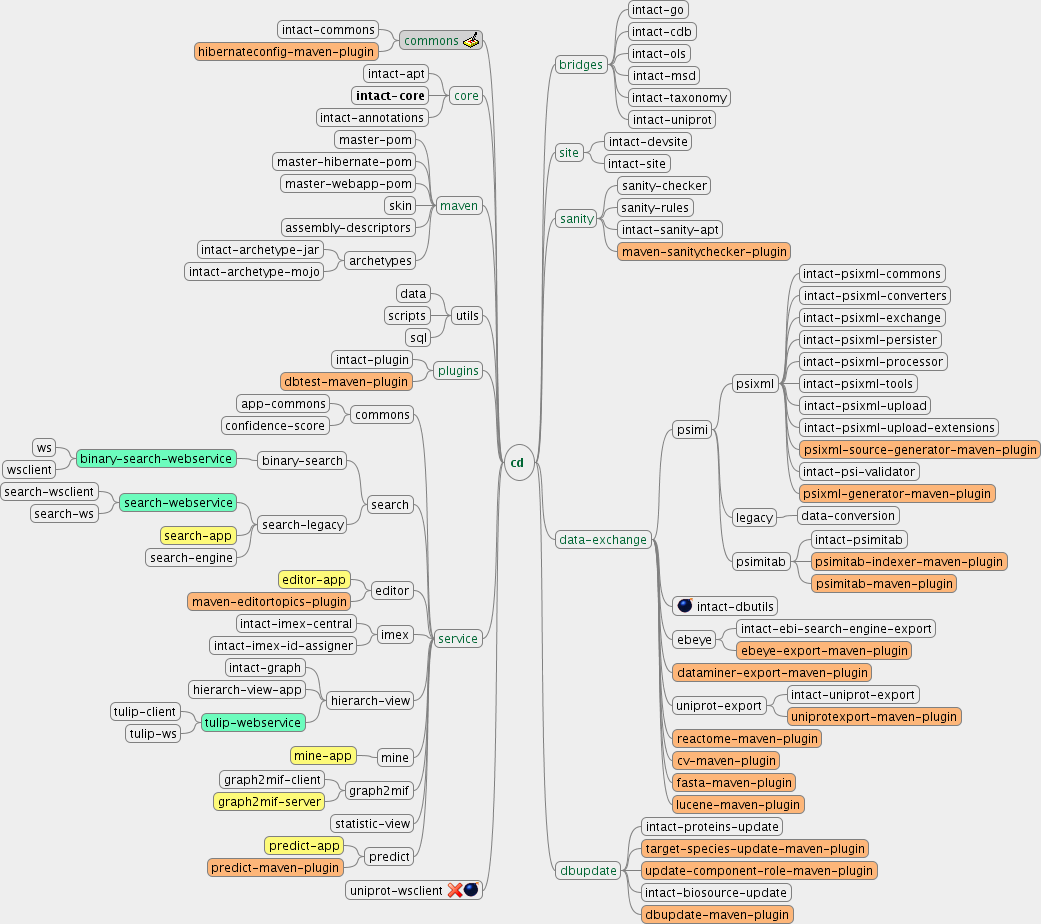
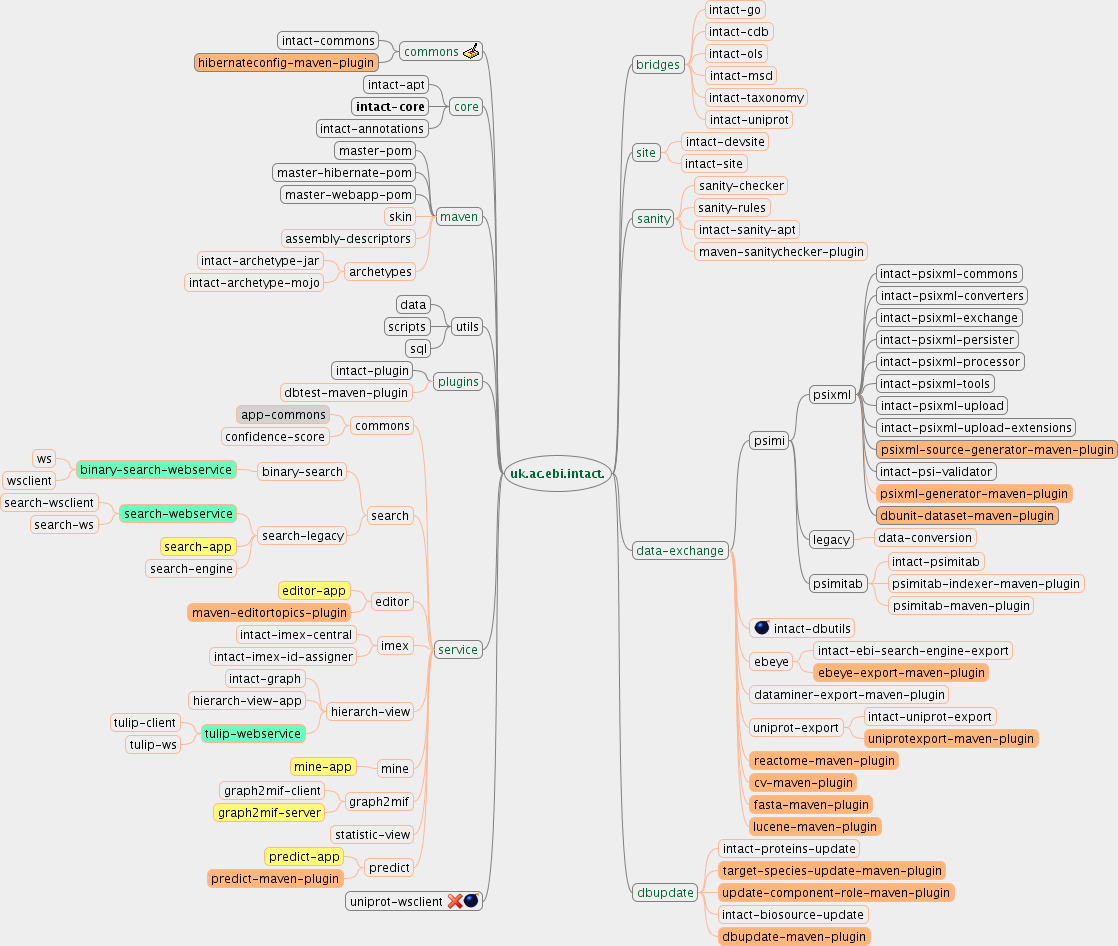
Updated graph

Changed region(s): [[0.0, 0.0, 1.0, 1.0], [0.6455, 0.4545, 0.707, 0.4848]]

diff --git a/repo/current/intact-modules.mm b/repo/current/intact-modules.mm
@@ -1,49 +1,61 @@
 <map version="0.8.0">
 <!-- To view this file, download free mind mapping software FreeMind from http://freemind.sourceforge.net -->
-<node COLOR="#006633" CREATED="1168876114925" ID="Freemind_Link_1641714205" MODIFIED="1181231680279" STYLE="bubble" TEXT="cd ">
+<node COLOR="#006633" CREATED="1168876114925" ID="Freemind_Link_1641714205" MODIFIED="1181306958909" STYLE="bubble" TEXT="uk.ac.ebi.intact.">
 <font BOLD="true" NAME="SansSerif" SIZE="12"/>
 <node COLOR="#006633" CREATED="1181226155459" ID="Freemind_Link_1821397944" MODIFIED="1181231530147" POSITION="right" TEXT="bridges">
 <font NAME="SansSerif" SIZE="12"/>
-<node CREATED="1181219872733" ID="Freemind_Link_1932545838" MODIFIED="1181231030420" TEXT="intact-go">
+<node CREATED="1181219872733" ID="Freemind_Link_1932545838" MODIFIED="1181306883065" TEXT="intact-go">
+<edge COLOR="#ffb894" WIDTH="thin"/>
 <font NAME="SansSerif" SIZE="12"/>
 </node>
-<node CREATED="1181219848272" ID="Freemind_Link_373515143" MODIFIED="1181231030416" TEXT="intact-cdb">
+<node CREATED="1181219848272" ID="Freemind_Link_373515143" MODIFIED="1181306883689" TEXT="intact-cdb">
+<edge COLOR="#ffb894" WIDTH="thin"/>
 <font NAME="SansSerif" SIZE="12"/>
 </node>
-<node CREATED="1181219890339" ID="Freemind_Link_991036459" MODIFIED="1181231030412" TEXT="intact-ols">
+<node CREATED="1181219890339" ID="Freemind_Link_991036459" MODIFIED="1181306884377" TEXT="intact-ols">
+<edge COLOR="#ffb894" WIDTH="thin"/>
 <font NAME="SansSerif" SIZE="12"/>
 </node>
-<node CREATED="1181219887550" ID="Freemind_Link_278679673" MODIFIED="1181231030407" TEXT="intact-msd">
+<node CREATED="1181219887550" ID="Freemind_Link_278679673" MODIFIED="1181306884986" TEXT="intact-msd">
+<edge COLOR="#ffb894" WIDTH="thin"/>
 <font NAME="SansSerif" SIZE="12"/>
 </node>
-<node CREATED="1181219908288" ID="Freemind_Link_1699368659" MODIFIED="1181231030401" TEXT="intact-taxonomy">
+<node CREATED="1181219908288" ID="Freemind_Link_1699368659" MODIFIED="1181306885546" TEXT="intact-taxonomy">
+<edge COLOR="#ffb894" WIDTH="thin"/>
 <font NAME="SansSerif" SIZE="12"/>
 </node>
-<node CREATED="1181219911055" ID="Freemind_Link_855748950" MODIFIED="1181231030395" TEXT="intact-uniprot">
+<node CREATED="1181219911055" ID="Freemind_Link_855748950" MODIFIED="1181306886210" TEXT="intact-uniprot">
+<edge COLOR="#ffb894" WIDTH="thin"/>
 <font NAME="SansSerif" SIZE="12"/>
 </node>
 </node>
 <node COLOR="#006633" CREATED="1181228032674" ID="Freemind_Link_468857254" MODIFIED="1181231529043" POSITION="right" TEXT="site">
 <font NAME="SansSerif" SIZE="12"/>
-<node CREATED="1181219865296" ID="Freemind_Link_1404664183" MODIFIED="1181231030385" TEXT="intact-devsite">
+<node CREATED="1181219865296" ID="Freemind_Link_1404664183" MODIFIED="1181306887425" TEXT="intact-devsite">
+<edge COLOR="#ffb894" WIDTH="thin"/>
 <font NAME="SansSerif" SIZE="12"/>
 </node>
-<node CREATED="1181219905958" ID="Freemind_Link_893035377" MODIFIED="1181231030379" TEXT="intact-site">
+<node CREATED="1181219905958" ID="Freemind_Link_893035377" MODIFIED="1181306888098" TEXT="intact-site">
+<edge COLOR="#ffb894" WIDTH="thin"/>
 <font NAME="SansSerif" SIZE="12"/>
 </node>
 </node>
 <node COLOR="#006633" CREATED="1181228864110" ID="Freemind_Link_1539915686" MODIFIED="1181231528235" POSITION="right" TEXT="sanity">
 <font NAME="SansSerif" SIZE="12"/>
-<node CREATED="1181219927664" ID="Freemind_Link_917778409" MODIFIED="1181231030369" TEXT="sanity-checker">
+<node CREATED="1181219927664" ID="Freemind_Link_917778409" MODIFIED="1181306889437" TEXT="sanity-checker">
+<edge COLOR="#ffb894" WIDTH="thin"/>
 <font NAME="SansSerif" SIZE="12"/>
 </node>
-<node CREATED="1181219930350" ID="Freemind_Link_406316997" MODIFIED="1181231030364" TEXT="sanity-rules">
+<node CREATED="1181219930350" ID="Freemind_Link_406316997" MODIFIED="1181306889962" TEXT="sanity-rules">
+<edge COLOR="#ffb894" WIDTH="thin"/>
 <font NAME="SansSerif" SIZE="12"/>
 </node>
-<node CREATED="1181219903504" ID="Freemind_Link_1337513036" MODIFIED="1181231030359" TEXT="intact-sanity-apt">
+<node CREATED="1181219903504" ID="Freemind_Link_1337513036" MODIFIED="1181306890546" TEXT="intact-sanity-apt">
+<edge COLOR="#ffb894" WIDTH="thin"/>
 <font NAME="SansSerif" SIZE="12"/>
 </node>
-<node BACKGROUND_COLOR="#fdb679" CREATED="1181220151246" ID="Freemind_Link_1743155063" MODIFIED="1181231461367" TEXT="maven-sanitychecker-plugin">
+<node CREATED="1181220151246" ID="Freemind_Link_1743155063" MODIFIED="1181306891302" TEXT="maven-sanitychecker-plugin">
+<edge COLOR="#ffb894" WIDTH="thin"/>
 <font NAME="SansSerif" SIZE="12"/>
 </node>
 </node>
@@ -64,24 +76,40 @@
 <node CREATED="1181220032989" ID="Freemind_Link_460551093" MODIFIED="1181231030318" TEXT="intact-psixml-upload-extensions"/>
 <node BACKGROUND_COLOR="#fdb679" CREATED="1181219997687" ID="_" MODIFIED="1181231461388" TEXT="psixml-source-generator-maven-plugin&#xa;"/>
 <node CREATED="1181220210838" ID="Freemind_Link_692197070" MODIFIED="1181231030313" TEXT="intact-psi-validator"/>
-<node BACKGROUND_COLOR="#fdb679" CREATED="1181220161503" ID="Freemind_Link_165922696" MODIFIED="1181231461392" TEXT="psixml-generator-maven-plugin"/>
+<node BACKGROUND_COLOR="#fdb679" CREATED="1181220161503" ID="Freemind_Link_165922696" MODIFIED="1181307055010" TEXT="psixml-generator-maven-plugin">
+<edge COLOR="#ffb894" WIDTH="thin"/>
+</node>
+<node BACKGROUND_COLOR="#fdb679" CREATED="1181306517478" ID="Freemind_Link_1301011876" MODIFIED="1181306592569" TEXT="dbunit-dataset-maven-plugin">
+<edge COLOR="#808080" WIDTH="thin"/>
+</node>
 </node>
 <node CREATED="1181227979010" ID="Freemind_Link_1088707423" MODIFIED="1181231030310" TEXT="legacy">
 <font NAME="SansSerif" SIZE="12"/>
-<node CREATED="1181219776695" ID="Freemind_Link_115347496" MODIFIED="1181231030305" TEXT="data-conversion"/>
+<node CREATED="1181219776695" ID="Freemind_Link_115347496" MODIFIED="1181306894850" TEXT="data-conversion">
+<edge COLOR="#ffb894" WIDTH="thin"/>
+</node>
 </node>
 <node CREATED="1181229367268" ID="Freemind_Link_1652070255" MODIFIED="1181231030304" TEXT="psimitab">
 <font NAME="SansSerif" SIZE="12"/>
-<node CREATED="1181219895186" ID="Freemind_Link_1573146958" MODIFIED="1181231030300" TEXT="intact-psimitab"/>
-<node BACKGROUND_COLOR="#fdb679" CREATED="1181220156645" ID="Freemind_Link_1235764972" MODIFIED="1181231461433" TEXT="psimitab-indexer-maven-plugin"/>
-<node BACKGROUND_COLOR="#fdb679" CREATED="1181220159236" ID="Freemind_Link_846554045" MODIFIED="1181231461435" TEXT="psimitab-maven-plugin"/>
+<node CREATED="1181219895186" ID="Freemind_Link_1573146958" MODIFIED="1181306895489" TEXT="intact-psimitab">
+<edge COLOR="#ffb894" WIDTH="thin"/>
+</node>
+<node CREATED="1181220156645" ID="Freemind_Link_1235764972" MODIFIED="1181306896374" TEXT="psimitab-indexer-maven-plugin">
+<edge COLOR="#ffb894" WIDTH="thin"/>
+<font NAME="SansSerif" SIZE="12"/>
+</node>
+<node CREATED="1181220159236" ID="Freemind_Link_846554045" MODIFIED="1181306897079" TEXT="psimitab-maven-plugin">
+<edge COLOR="#ffb894" WIDTH="thin"/>
 </node>
 </node>
-<node CREATED="1181219859127" ID="Freemind_Link_1670283523" MODIFIED="1181231030295" TEXT="intact-dbutils">
+</node>
+<node CREATED="1181219859127" ID="Freemind_Link_1670283523" MODIFIED="1181306899835" TEXT="intact-dbutils">
+<edge COLOR="#ffb894" WIDTH="thin"/>
 <font NAME="SansSerif" SIZE="12"/>
 <icon BUILTIN="clanbomber"/>
 </node>
-<node CREATED="1181229208125" ID="Freemind_Link_294954143" MODIFIED="1181231030291" TEXT="ebeye">
+<node CREATED="1181229208125" ID="Freemind_Link_294954143" MODIFIED="1181306900474" TEXT="ebeye">
+<edge COLOR="#ffb894" WIDTH="thin"/>
 <font NAME="SansSerif" SIZE="12"/>
 <node CREATED="1181219868502" ID="Freemind_Link_1122527807" MODIFIED="1181231030288" TEXT="intact-ebi-search-engine-export">
 <font NAME="SansSerif" SIZE="12"/>
@@ -90,10 +118,12 @@
 <font NAME="SansSerif" SIZE="12"/>
 </node>
 </node>
-<node BACKGROUND_COLOR="#fdb679" CREATED="1181220124835" ID="Freemind_Link_1625247272" MODIFIED="1181231461400" TEXT="dataminer-export-maven-plugin">
+<node CREATED="1181220124835" ID="Freemind_Link_1625247272" MODIFIED="1181306901141" TEXT="dataminer-export-maven-plugin">
+<edge COLOR="#ffb894" WIDTH="thin"/>
 <font NAME="SansSerif" SIZE="12"/>
 </node>
-<node CREATED="1181229452772" ID="Freemind_Link_1926069642" MODIFIED="1181231030274" TEXT="uniprot-export">
+<node CREATED="1181229452772" ID="Freemind_Link_1926069642" MODIFIED="1181306901746" TEXT="uniprot-export">
+<edge COLOR="#ffb894" WIDTH="thin"/>
 <font NAME="SansSerif" SIZE="12"/>
 <node CREATED="1181219913548" ID="Freemind_Link_118032030" MODIFIED="1181231030270" TEXT="intact-uniprot-export">
 <font NAME="SansSerif" SIZE="12"/>
@@ -102,34 +132,43 @@
 <font NAME="SansSerif" SIZE="12"/>
 </node>
 </node>
-<node BACKGROUND_COLOR="#fdb679" CREATED="1181220164347" ID="Freemind_Link_925319582" MODIFIED="1181231461408" TEXT="reactome-maven-plugin">
+<node BACKGROUND_COLOR="#fdb679" CREATED="1181220164347" ID="Freemind_Link_925319582" MODIFIED="1181307036929" TEXT="reactome-maven-plugin">
+<edge COLOR="#ffb894" WIDTH="thin"/>
 <font NAME="SansSerif" SIZE="12"/>
 </node>
-<node BACKGROUND_COLOR="#fdb679" CREATED="1181220118362" ID="Freemind_Link_1559544209" MODIFIED="1181231461412" TEXT="cv-maven-plugin">
+<node BACKGROUND_COLOR="#fdb679" CREATED="1181220118362" ID="Freemind_Link_1559544209" MODIFIED="1181307036341" TEXT="cv-maven-plugin">
+<edge COLOR="#ffb894" WIDTH="thin"/>
 <font NAME="SansSerif" SIZE="12"/>
 </node>
-<node BACKGROUND_COLOR="#fdb679" CREATED="1181220136533" ID="Freemind_Link_73453960" MODIFIED="1181231461415" TEXT="fasta-maven-plugin">
+<node BACKGROUND_COLOR="#fdb679" CREATED="1181220136533" ID="Freemind_Link_73453960" MODIFIED="1181307035757" TEXT="fasta-maven-plugin">
+<edge COLOR="#ffb894" WIDTH="thin"/>
 <font NAME="SansSerif" SIZE="12"/>
 </node>
-<node BACKGROUND_COLOR="#fdb679" CREATED="1181220145843" ID="Freemind_Link_740683974" MODIFIED="1181231461419" TEXT="lucene-maven-plugin">
+<node BACKGROUND_COLOR="#fdb679" CREATED="1181220145843" ID="Freemind_Link_740683974" MODIFIED="1181307035242" TEXT="lucene-maven-plugin">
+<edge COLOR="#ffb894" WIDTH="thin"/>
 <font NAME="SansSerif" SIZE="12"/>
 </node>
 </node>
 <node COLOR="#006633" CREATED="1181230107393" ID="Freemind_Link_1895027714" MODIFIED="1181231526250" POSITION="right" TEXT="dbupdate">
 <font NAME="SansSerif" SIZE="12"/>
-<node CREATED="1181219892745" ID="Freemind_Link_732003769" MODIFIED="1181231030240" TEXT="intact-proteins-update">
+<node CREATED="1181219892745" ID="Freemind_Link_732003769" MODIFIED="1181306905692" TEXT="intact-proteins-update">
+<edge COLOR="#ffb894" WIDTH="thin"/>
 <font NAME="SansSerif" SIZE="12"/>
 </node>
-<node BACKGROUND_COLOR="#fdb679" CREATED="1181220166659" ID="Freemind_Link_1923902743" MODIFIED="1181231461423" TEXT="target-species-update-maven-plugin">
+<node BACKGROUND_COLOR="#fdb679" CREATED="1181220166659" ID="Freemind_Link_1923902743" MODIFIED="1181307033277" TEXT="target-species-update-maven-plugin">
+<edge COLOR="#ffb894" WIDTH="thin"/>
 <font NAME="SansSerif" SIZE="12"/>
 </node>
-<node BACKGROUND_COLOR="#fdb679" CREATED="1181220109102" ID="Freemind_Link_920684730" MODIFIED="1181231461427" TEXT="update-component-role-maven-plugin&#xa;">
+<node BACKGROUND_COLOR="#fdb679" CREATED="1181220109102" ID="Freemind_Link_920684730" MODIFIED="1181307034037" TEXT="update-component-role-maven-plugin&#xa;">
+<edge COLOR="#ffb894" WIDTH="thin"/>
 <font NAME="SansSerif" SIZE="12"/>
 </node>
-<node CREATED="1181219842826" ID="Freemind_Link_1292216880" MODIFIED="1181231030228" TEXT="intact-biosource-update">
+<node CREATED="1181219842826" ID="Freemind_Link_1292216880" MODIFIED="1181306907382" TEXT="intact-biosource-update">
+<edge COLOR="#ffb894" WIDTH="thin"/>
 <font NAME="SansSerif" SIZE="12"/>
 </node>
-<node BACKGROUND_COLOR="#fdb679" CREATED="1181220130934" ID="Freemind_Link_828800315" MODIFIED="1181231461431" TEXT="dbupdate-maven-plugin">
+<node BACKGROUND_COLOR="#fdb679" CREATED="1181220130934" ID="Freemind_Link_828800315" MODIFIED="1181307038798" TEXT="dbupdate-maven-plugin">
+<edge COLOR="#ffb894" WIDTH="thin"/>
 <font NAME="SansSerif" SIZE="12"/>
 </node>
 </node>
@@ -168,13 +207,16 @@
 <node CREATED="1181220285773" ID="Freemind_Link_1234906703" MODIFIED="1181231030181" TEXT="master-webapp-pom">
 <font NAME="SansSerif" SIZE="12"/>
 </node>
-<node CREATED="1181228993621" ID="Freemind_Link_1663507121" MODIFIED="1181231030178" TEXT="skin">
+<node CREATED="1181228993621" ID="Freemind_Link_1663507121" MODIFIED="1181306846911" TEXT="skin">
+<edge COLOR="#ffb894" STYLE="bezier" WIDTH="thin"/>
 <font NAME="SansSerif" SIZE="12"/>
 </node>
-<node CREATED="1181219752135" ID="Freemind_Link_1744906663" MODIFIED="1181231030174" TEXT="assembly-descriptors">
+<node CREATED="1181219752135" ID="Freemind_Link_1744906663" MODIFIED="1181306845479" TEXT="assembly-descriptors">
+<edge COLOR="#ffb894" STYLE="bezier" WIDTH="thin"/>
 <font NAME="SansSerif" SIZE="12"/>
 </node>
-<node CREATED="1181220864074" ID="Freemind_Link_1899311366" MODIFIED="1181231030170" TEXT="archetypes">
+<node CREATED="1181220864074" ID="Freemind_Link_1899311366" MODIFIED="1181306840503" TEXT="archetypes">
+<edge COLOR="#ffb894" STYLE="bezier" WIDTH="thin"/>
 <font NAME="SansSerif" SIZE="12"/>
 <node CREATED="1181220891029" ID="Freemind_Link_1523128336" MODIFIED="1181231030164" TEXT="intact-archetype-jar">
 <font NAME="SansSerif" SIZE="12"/>
@@ -201,13 +243,15 @@
 <node CREATED="1181220143108" ID="Freemind_Link_951319956" MODIFIED="1181231030134" TEXT="intact-plugin">
 <font NAME="SansSerif" SIZE="12"/>
 </node>
-<node BACKGROUND_COLOR="#fdb679" CREATED="1181220128274" ID="Freemind_Link_356634940" MODIFIED="1181231461377" TEXT="dbtest-maven-plugin">
+<node CREATED="1181220128274" ID="Freemind_Link_356634940" MODIFIED="1181306851031" TEXT="dbtest-maven-plugin">
+<edge COLOR="#ffb894" WIDTH="thin"/>
 <font NAME="SansSerif" SIZE="12"/>
 </node>
 </node>
-<node COLOR="#006633" CREATED="1181220679971" ID="Freemind_Link_1638890091" MODIFIED="1181231523963" POSITION="left" TEXT="service">
+<node COLOR="#006633" CREATED="1181220679971" ID="Freemind_Link_1638890091" MODIFIED="1181306861230" POSITION="left" TEXT="service">
 <font NAME="SansSerif" SIZE="12"/>
-<node CREATED="1181227952371" ID="Freemind_Link_474393818" MODIFIED="1181231030117" TEXT="commons">
+<node CREATED="1181227952371" ID="Freemind_Link_474393818" MODIFIED="1181306864732" TEXT="commons">
+<edge COLOR="#ffb894" WIDTH="thin"/>
 <font NAME="SansSerif" SIZE="12"/>
 <node CREATED="1181219723363" ID="Freemind_Link_931810483" MODIFIED="1181231030113" TEXT="app-commons">
 <font NAME="SansSerif" SIZE="12"/>
@@ -216,7 +260,8 @@
 <font NAME="SansSerif" SIZE="12"/>
 </node>
 </node>
-<node CREATED="1181220686811" ID="Freemind_Link_1380758384" MODIFIED="1181231030106" TEXT="search">
+<node CREATED="1181220686811" ID="Freemind_Link_1380758384" MODIFIED="1181306866822" TEXT="search">
+<edge COLOR="#ffb894" WIDTH="thin"/>
 <font NAME="SansSerif" SIZE="12"/>
 <node CREATED="1181219760204" ID="Freemind_Link_12338167" MODIFIED="1181231030101" TEXT="binary-search">
 <font NAME="SansSerif" SIZE="12"/>
@@ -235,7 +280,8 @@
 <node CREATED="1181219935182" ID="Freemind_Link_378551552" MODIFIED="1181231030077" TEXT="search-engine"/>
 </node>
 </node>
-<node CREATED="1181227524699" ID="Freemind_Link_1470825556" MODIFIED="1181231030075" TEXT="editor">
+<node CREATED="1181227524699" ID="Freemind_Link_1470825556" MODIFIED="1181306868044" TEXT="editor">
+<edge COLOR="#ffb894" WIDTH="thin"/>
 <font NAME="SansSerif" SIZE="12"/>
 <node BACKGROUND_COLOR="#fdfa79" CREATED="1181219765767" ID="Freemind_Link_661530968" MODIFIED="1181231391251" TEXT="editor-app">
 <font NAME="SansSerif" SIZE="12"/>
@@ -244,7 +290,8 @@
 <font NAME="SansSerif" SIZE="12"/>
 </node>
 </node>
-<node CREATED="1181227542124" ID="Freemind_Link_243865507" MODIFIED="1181231030064" TEXT="imex">
+<node CREATED="1181227542124" ID="Freemind_Link_243865507" MODIFIED="1181306869219" TEXT="imex">
+<edge COLOR="#ffb894" WIDTH="thin"/>
 <font NAME="SansSerif" SIZE="12"/>
 <node CREATED="1181219879689" ID="Freemind_Link_204214093" MODIFIED="1181231030059" TEXT="intact-imex-central">
 <font NAME="SansSerif" SIZE="12"/>
@@ -253,7 +300,8 @@
 <font NAME="SansSerif" SIZE="12"/>
 </node>
 </node>
-<node CREATED="1181227902595" ID="Freemind_Link_663632694" MODIFIED="1181231030049" TEXT="hierarch-view">
+<node CREATED="1181227902595" ID="Freemind_Link_663632694" MODIFIED="1181306870523" TEXT="hierarch-view">
+<edge COLOR="#ffb894" WIDTH="thin"/>
 <font NAME="SansSerif" SIZE="12"/>
 <node CREATED="1181219876974" ID="Freemind_Link_996647772" MODIFIED="1181231030046" TEXT="intact-graph">
 <font NAME="SansSerif" SIZE="12"/>
@@ -267,13 +315,15 @@
 <node CREATED="1181219954907" ID="Freemind_Link_806282221" MODIFIED="1181231030033" TEXT="tulip-ws"/>
 </node>
 </node>
-<node CREATED="1181228074445" ID="Freemind_Link_1368298740" MODIFIED="1181231030032" TEXT="mine">
+<node CREATED="1181228074445" ID="Freemind_Link_1368298740" MODIFIED="1181306871430" TEXT="mine">
+<edge COLOR="#ffb894" WIDTH="thin"/>
 <font NAME="SansSerif" SIZE="12"/>
 <node BACKGROUND_COLOR="#fdfa79" CREATED="1181219918676" ID="Freemind_Link_1141559204" MODIFIED="1181231391253" TEXT="mine-app">
 <font NAME="SansSerif" SIZE="12"/>
 </node>
 </node>
-<node CREATED="1181228078842" ID="Freemind_Link_1241895187" MODIFIED="1181231030025" TEXT="graph2mif">
+<node CREATED="1181228078842" ID="Freemind_Link_1241895187" MODIFIED="1181306872460" TEXT="graph2mif">
+<edge COLOR="#ffb894" WIDTH="thin"/>
 <font NAME="SansSerif" SIZE="12"/>
 <node CREATED="1181219781905" ID="Freemind_Link_1674957053" MODIFIED="1181231030021" TEXT="graph2mif-client">
 <font NAME="SansSerif" SIZE="12"/>
@@ -282,10 +332,12 @@
 <font NAME="SansSerif" SIZE="12"/>
 </node>
 </node>
-<node CREATED="1181219945342" ID="Freemind_Link_1852589076" MODIFIED="1181231030012" TEXT="statistic-view">
+<node CREATED="1181219945342" ID="Freemind_Link_1852589076" MODIFIED="1181306873548" TEXT="statistic-view">
+<edge COLOR="#ffb894" WIDTH="thin"/>
 <font NAME="SansSerif" SIZE="12"/>
 </node>
-<node CREATED="1181229302004" ID="Freemind_Link_1402108639" MODIFIED="1181231030008" TEXT="predict">
+<node CREATED="1181229302004" ID="Freemind_Link_1402108639" MODIFIED="1181306874589" TEXT="predict">
+<edge COLOR="#ffb894" WIDTH="thin"/>
 <font NAME="SansSerif" SIZE="12"/>
 <node BACKGROUND_COLOR="#fdfa79" CREATED="1181219924934" ID="Freemind_Link_1234881622" MODIFIED="1181231391256" TEXT="predict-app">
 <font NAME="SansSerif" SIZE="12"/>
